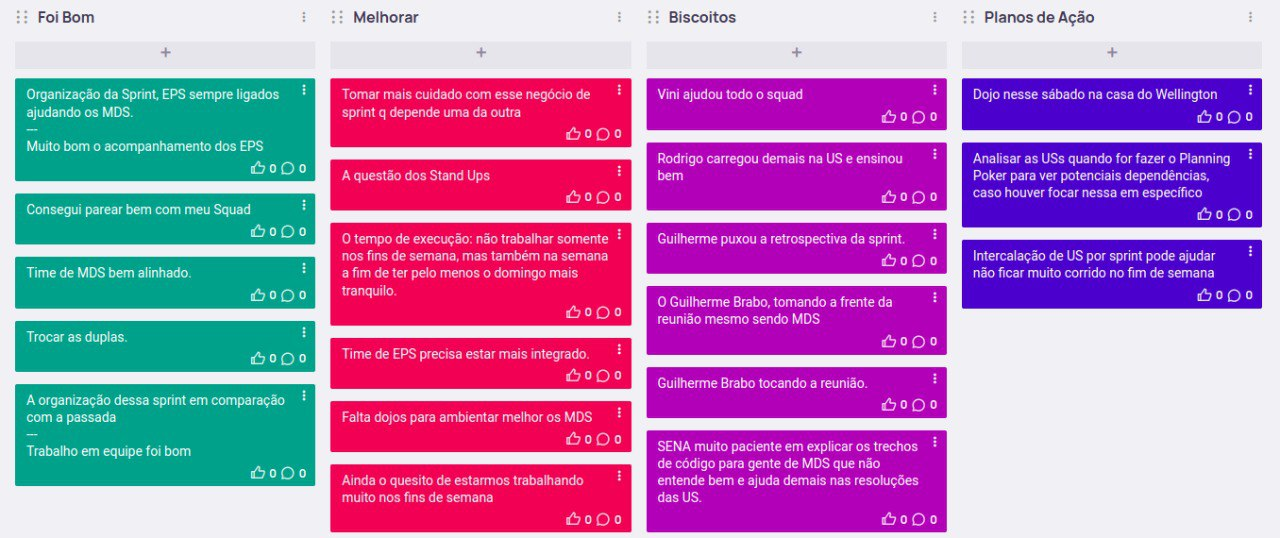
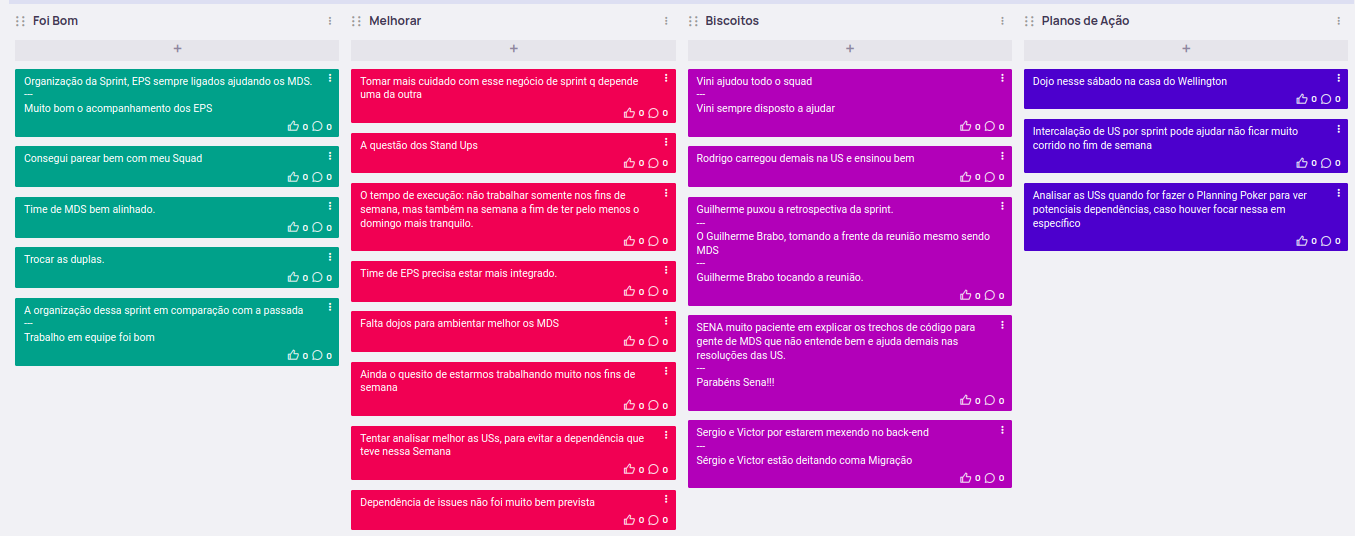
(#62) - Cria relatório da Sprint 5 e atualiza alguns relatórios anteriores e a página de planejamento

diff --git a/docs/Relatórios/sprint5.md b/docs/Relatórios/sprint5.md
@@ -1,0 +1,107 @@
+# Sprint 5
+## Visão geral
+**Data de Inicio:** 13/06/2023
+
+**Data de Término:** 20/06/2023
+
+
+## Atividades realizadas
+### Reunião dia 13/06/2023
+**Participantes**
+
+| Papel | Membro |
+| ----- | ------ |
+| EPS | Arthur Sena, Peniel Zannoukou, Rodrigo Lima, Victor Lucas, Vinícius Souza, Wellington Jonathan | 
+| MDS | Ana Cavalcanti, Artur Fontinele, Flávio Melo, Guilherme Gonçalves, Gustavo Sorte, Harryson Martins, Juan Pablo Ricarte, Leandro Oliveira, Oscar Neto |
+
+- Assuntos abordados:
+    - Sprint Review
+        - As US Remover filtragem do cliente (Issue #122), adicionar paginação (Issue #121) e
+US07 estão em andamento
+        - US finalizadas: 03, 05, 06, 34, 35, 36
+        - Fechamos 20 pontos de US nessa última semana
+    - Planning
+        - Corrigir bug da situação atual do processo:
+            - Quando entra a primeira vez na página dos processos, situação atual fica n/undefined.
+    - USs para próxima Sprint:
+        - US41 Observações sobre avanço de etapas (8 pts)
+        - US16 Visualização do tutorial (8 pts)
+        - US18 Visualização de contribuidores (3 pts)
+        - US19 Visualização de indicações (5 pts) (US17 foi contemplada na US19)
+
+**Redator**: Artur Jackson Leal Fontinele
+
+### Reunião dia 14/06/2023
+**Participantes**
+
+| Papel | Membro |
+| ----- | ------ |
+| Professor | Hilmer Rodrigues Neri |
+| Cliente | Wellington José Barbosa Carlos |
+| Mentor |  Fernando Miranda |
+| EPS | Peniel Zannoukou, Rodrigo Lima, Victor Lucas, Vinícius Souza, Wellington Jonathan | 
+| MDS | Ana Cavalcanti, Artur Fontinele, Flávio Melo, Guilherme Gonçalves, Gustavo Sorte, Harryson Martins, Leandro Oliveira, Oscar Neto, Yan Paulo | 
+
+- Assuntos Abordados:
+    - Retrospectiva
+        - Foi usado o EasyRetro
+            - Foi bom
+                - Cadenciar menos atividades devido a semana de provas referente aos MDS
+                - Professor entende que o projeto CAPJu está andando conforme o esperado
+            - Melhorar
+                - Organizar o tempo (timebox) das reuniões
+                - Ocorrência de desorganização dos pareamentos
+                - descrever os post mais comentados
+            - Planos de Ações
+                - Propor um dojo de Testes
+                - Manter o review e planning na segunda-feira
+                - descrever os post mais comentados
+    - Definição de novos pareamentos com as suas respectivas USs para a próxima sprint
+        - Leandro, Artur, Peniel - (US19)
+        - Oscar, Yan, Rodrigo - (US16)
+        - Guilherme, Harryson, Vinicius - (US16)
+        - Gustavo, Flávio, Wellington - (US16)
+        - Ana, Juan, Sena - (US41)
+        - Sergio, Victor - (US18)
+        - US40, US07, issue 122 (remover filtragem do lado do cliente) e issue 121 (paginação) ainda
+precisa ser finalizada.
+
+**Redator**: Gustavo França Boa Sorte
+
+### Reunião dia 19/06/2023
+**Participantes**
+
+| Papel | Membro |
+| ----- | ------ |
+| Professor | Hilmer Rodrigues Neri |
+| Cliente | Wellington José Barbosa Carlos |
+| Mentor |  Fernando Miranda |
+| EPS | Arthur Sena, Peniel Zannoukou, Rodrigo Lima, Sérgio Cipriano, Victor Lucas, Vinícius Souza, Wellington Jonathan | 
+| MDS | Ana Cavalcanti, Artur Fontinele, Flávio Melo, Guilherme Gonçalves, Gustavo Sorte, Harryson Martins, Leandro Oliveira, Oscar Neto, Yan Paulo |
+
+- Assuntos abordados:
+    - Foi mostrado o andamento do Sonar Cloud e a cobertura de testes de cada
+repositório.
+    - Foi apresentado o EVM para o Cliente
+    - Foi definido que a opção de adicionar observações deverá estar presente
+sempre entre as etapas
+        - Para que o usuário consiga inserir observações onde ele preferir, por mais que ela não seja obrigada a colocar em todas, além disso, depois que a observação for feita, ela deverá se destacar dos demais elementos, seja por uma cor chamativa ou por outro detalhe. 
+        - Outro fator que ficou definido é que esse botão de observação não é necessário antes de iniciar um processo.
+    - Sobre a data de vencimento
+        - É a quantidade de dias de duração de cada etapa,sem contar o dia atual da etapa em questão,
+        até às 23:59
+
+**Redator**: Flávio Gustavo Araújo de Melo
+
+## Issues Concluidas
+| Issue | Responsáveis(s) |
+| ----- | ---------------- |
+|[Configurar CI utilizando sonarcloud](https://github.com/fga-eps-mds/2023-1-CAPJu-Doc/issues/2)| Arthur Sena, Sérgio Cipriano |
+|[Atualização das Atas](https://github.com/fga-eps-mds/2023-1-CAPJu-Doc/issues/62)| Ana Cavalcanti, Guilherme Gonçalves |
+|[Serviço de Gerenciamento de Processos](https://github.com/fga-eps-mds/2023-1-CAPJu-Doc/issues/178)| Victor Lucas |
+|[US40 - Filtro de Processos Finalizados e Arquivados](https://github.com/fga-eps-mds/2023-1-CAPJu-Doc/issues/184)| Arthur Sena, Flávio Melo, Juan Pablo Ricarte |
+
+## Histórico de versão
+| Data | Versão | Descrição | Autor(es) |
+| ---- | ---- | ---- | ---- |
+| 21/06/2023 | 0.1.0 | Criação do Documento | Ana Cavalcanti e Guilherme Gonçalves |

diff --git a/docs/Relatórios/sprint4.md b/docs/Relatórios/sprint4.md
@@ -12,7 +12,7 @@
 | Papel | Membro |
 | ----- | ------ |
 | EPS | Arthur Sena, Peniel Zannoukou, Rodrigo Lima, Sérgio Cipriano, Vinícius Souza, Wellington Jonathan | 
-| MDS | Ana Cavalcanti, Artur Fontinele, Flávio Melo, Gustavo Sorte, Harryson Martins   , Leandro Oliveira, Oscar Neto, Yan Paulo |
+| MDS | Ana Cavalcanti, Artur Fontinele, Flávio Melo, Gustavo Sorte, Harryson Martins, Leandro Oliveira, Oscar Neto, Yan Paulo |
 
 - Assuntos abordados:
     - Sprint review
@@ -140,7 +140,12 @@ etapa
 |[BUG - Padronizar botões na visualização do Fluxo](https://github.com/fga-eps-mds/2023-1-CAPJu-Doc/issues/188)| Guilherme Gonçalves, Vinícius Souza |
 |[BUG - Botão de Retroceder Etapa quando estiver na última etapa](https://github.com/fga-eps-mds/2023-1-CAPJu-Doc/issues/189)| Guilherme Gonçalves, Vinícius Souza |
 
+## Retrospectiva
+
+![RETRO](../assets/retro4.jpeg)
+
 ## Histórico de versão
 | Data | Versão | Descrição | Autor(es) |
 | ---- | ---- | ---- | ---- |
 | 18/06/2023 | 0.1.0 | Criação do Documento | Ana Cavalcanti e Guilherme Gonçalves |
+| 21/06/2023 | 0.1.1 | Atualização do Documento | Ana Cavalcanti e Guilherme Gonçalves |

diff --git a/docs/planejamento.md b/docs/planejamento.md
@@ -17,10 +17,10 @@
 | 16/05/2023 | [Sprint 01](Relatórios/sprint1.md) |
 | 22/05/2023 | Finalizando release 1 |
 | 23/05/2023 | [Sprint 02](Relatórios/sprint2.md) |
-| 30/05/2023 | Sprint 03 |
+| 30/05/2023 | [Sprint 03](Relatórios/sprint3.md) |
 | 04/06/2023 | Entrega de release ao cliente |
-| 06/06/2023 | Sprint 04 |
-| 13/06/2023 | Sprint 05 |
+| 06/06/2023 | [Sprint 04](Relatórios/sprint4.md) |
+| 13/06/2023 | [Sprint 05](Relatórios/sprint5.md) |
 | 20/06/2023 | Sprint 06 |
 | 27/06/2023 | Sprint 07 |
 | 04/07/2023 | Sprint 08 |

diff --git a/docs/Relatórios/sprint2.md b/docs/Relatórios/sprint2.md
@@ -169,10 +169,10 @@ chamar da “FlowProcess”
 ## Retrospectiva
 
 ![RETRO](../assets/retro2.jpeg)
-![RETRO](../assets/retro2-1.jpeg)
 
 ## Histórico de versão
 | Data | Versão | Descrição | Autor(es) |
 | ---- | ---- | ---- | ---- |
 | 25/05/2023 | 0.1.0 | Criação do Documento | Ana Cavalcanti e Guilherme Gonçalves |
 | 31/05/2023 | 0.1.1 | Atualização do Documento | Ana Cavalcanti e Guilherme Gonçalves |
+| 21/06/2023 | 0.1.2 | Atualização do Documento | Ana Cavalcanti e Guilherme Gonçalves |
